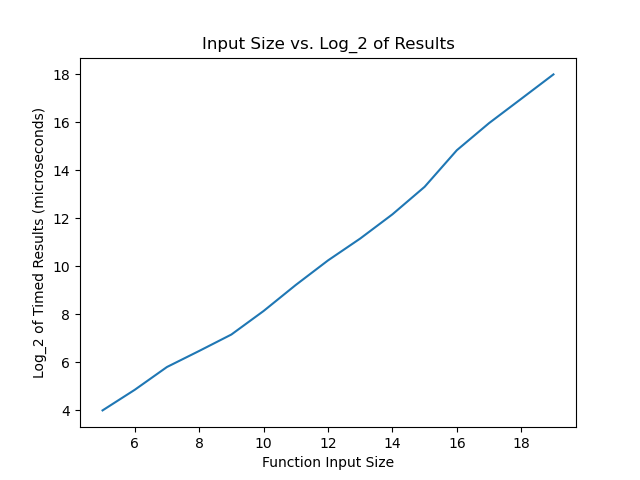
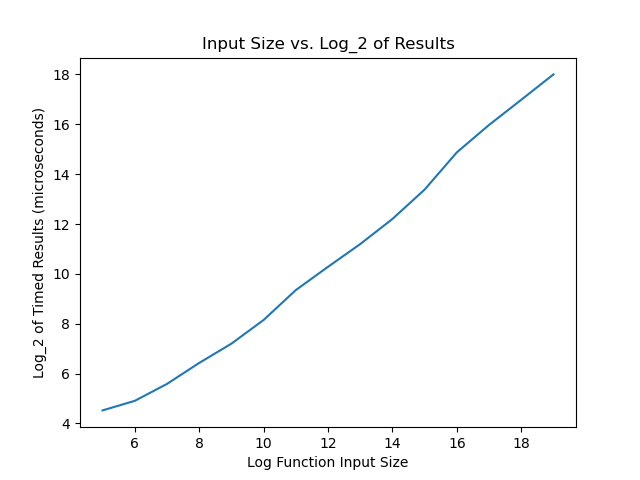
updated results

diff --git a/src/graph.py b/src/graph.py
@@ -16,7 +16,7 @@ x_np_arr = np.array(x_arr)
 log_y_np_arr = np.log2(y_np_arr)
 
 plt.title('Input Size vs. Log_2 of Results')
-plt.xlabel('Function Input Size')
+plt.xlabel('Log Function Input Size')
 plt.ylabel('Log_2 of Timed Results (microseconds)')
 plt.plot(x_np_arr, log_y_np_arr)
 
